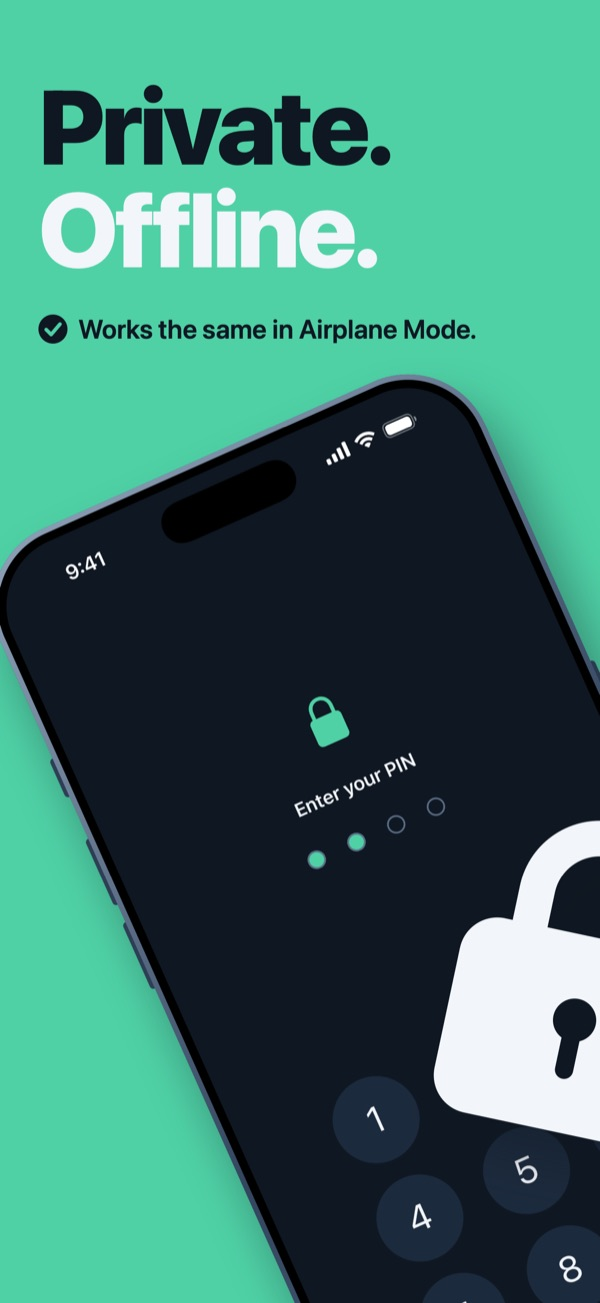
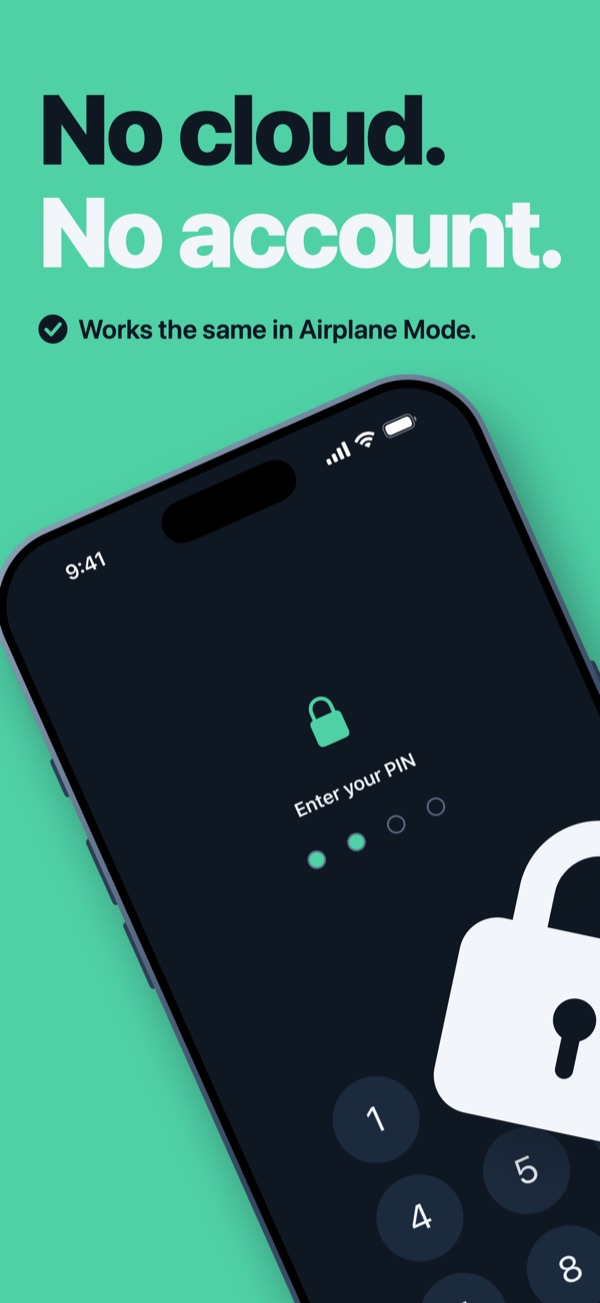
Lead the home page with "No cloud. No account."
"Offline." alone read as "not working". Same line as the new App Store
header and gallery panel 1, whose image is refreshed here.

Changed region(s): [[0.06, 0.0614, 0.93, 0.2149]]

diff --git a/envault/index.html b/envault/index.html
@@ -129,7 +129,7 @@
 
 <div class="hero">
   <div class="wrap">
-    <h1>Private.<span class="w">Offline.</span></h1>
+    <h1>No cloud.<span class="w">No account.</span></h1>
     <p class="lead">One private place on your iPhone for photos, videos, notes, passwords, documents and cards. It works the same in Airplane Mode.</p>
     <a class="cta" href="https://apps.apple.com/app/id6788605532">
       <svg viewBox="0 0 24 24" fill="none" aria-hidden="true"><path d="M12 3v12m0 0l-5-5m5 5l5-5M4 19h16" stroke="currentColor" stroke-width="2.2" stroke-linecap="round" stroke-linejoin="round"/></svg>
@@ -141,7 +141,7 @@
 
 <div class="strip" aria-label="Screens from the App Store">
   <div class="rail">
-    <img src="img/panel-1.jpg" width="600" height="1303" alt="Private. Offline. Works the same in Airplane Mode.">
+    <img src="img/panel-1.jpg" width="600" height="1303" alt="No cloud. No account. Works the same in Airplane Mode.">
     <img src="img/panel-2.jpg" width="600" height="1303" alt="All of it. One PIN." loading="lazy">
     <img src="img/panel-3.jpg" width="600" height="1303" alt="Private photos. They never leave this phone." loading="lazy">
     <img src="img/panel-4.jpg" width="600" height="1303" alt="Not just photos: cards and IDs in Wallet." loading="lazy">
